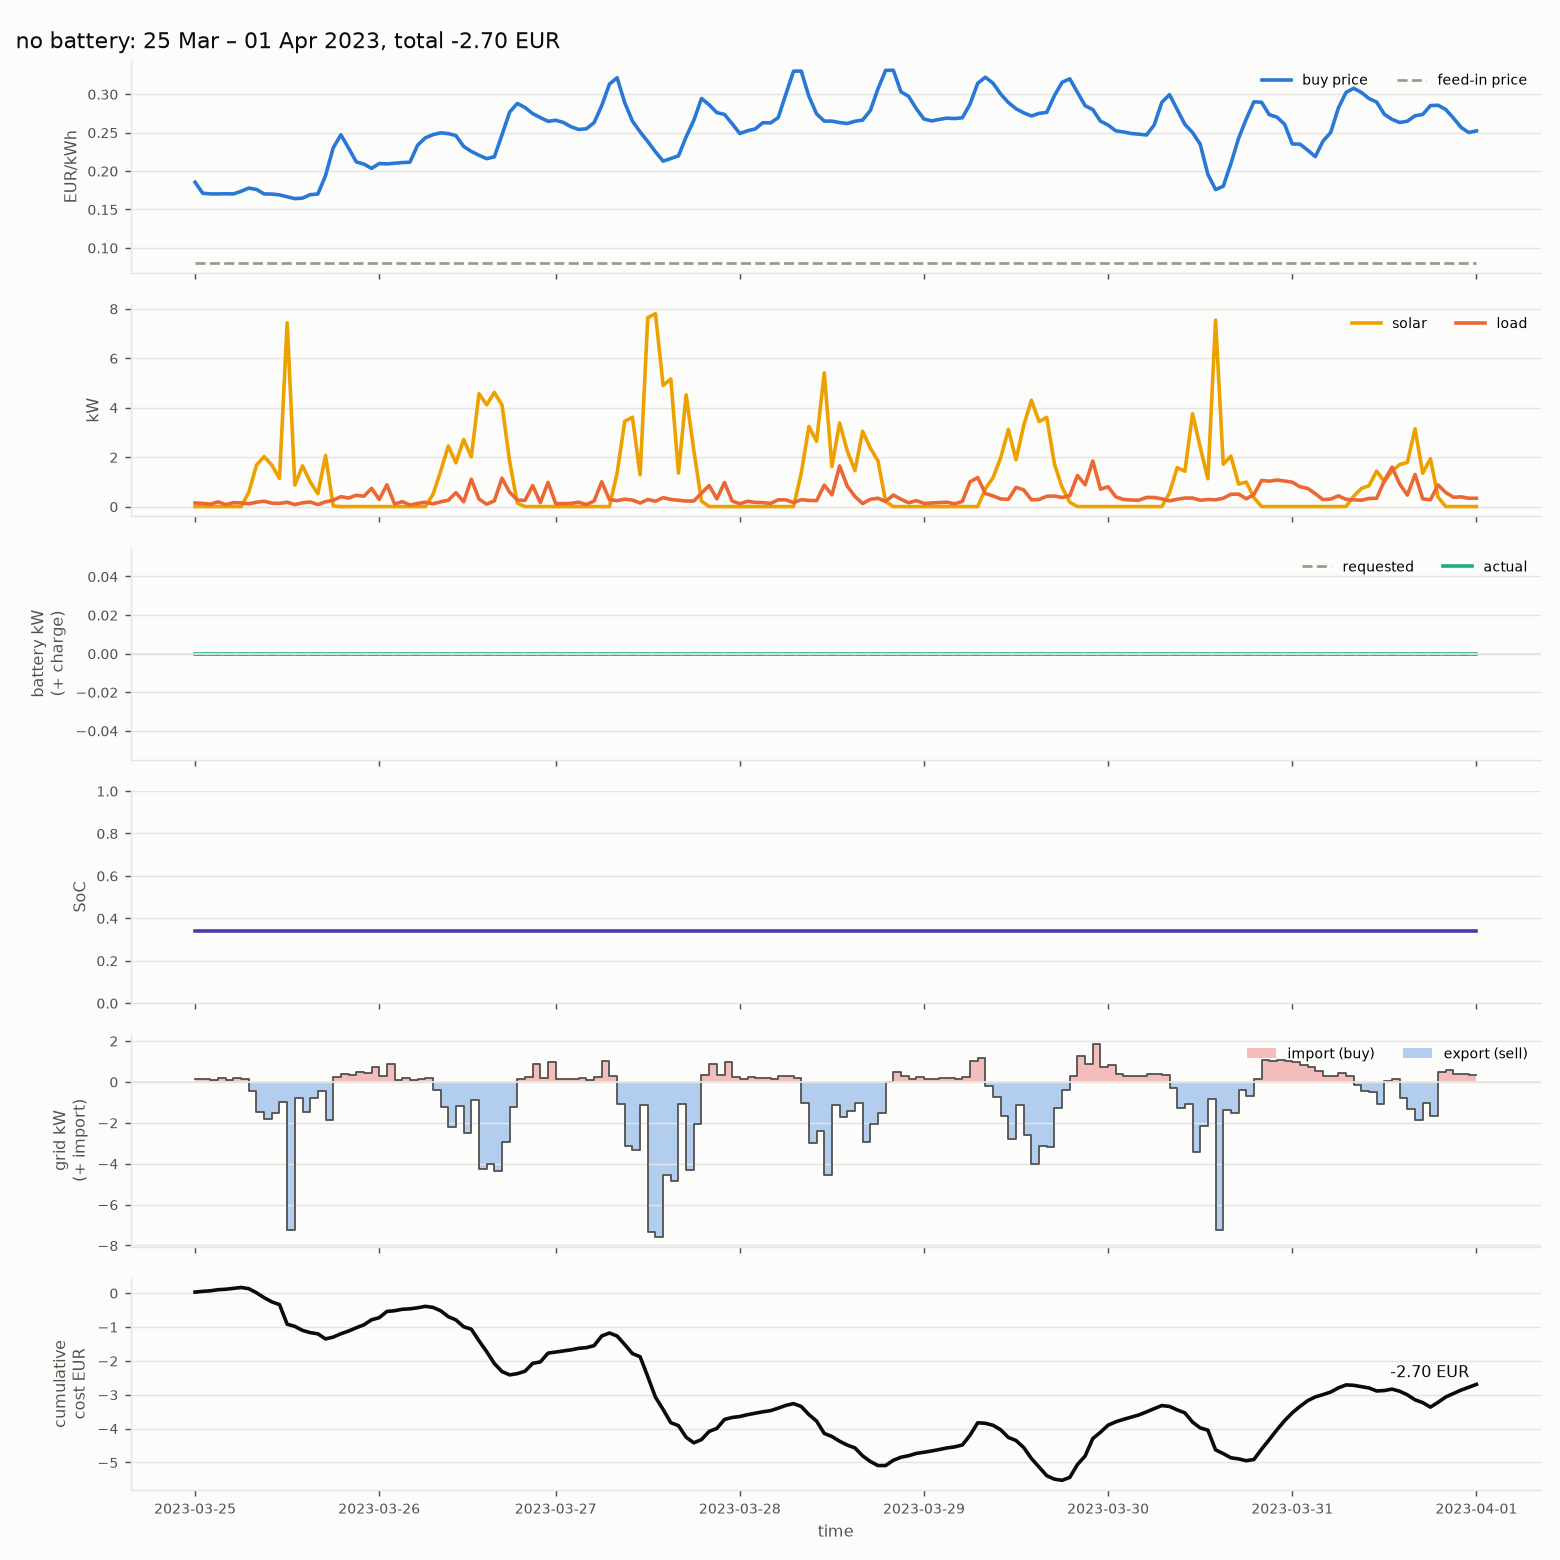
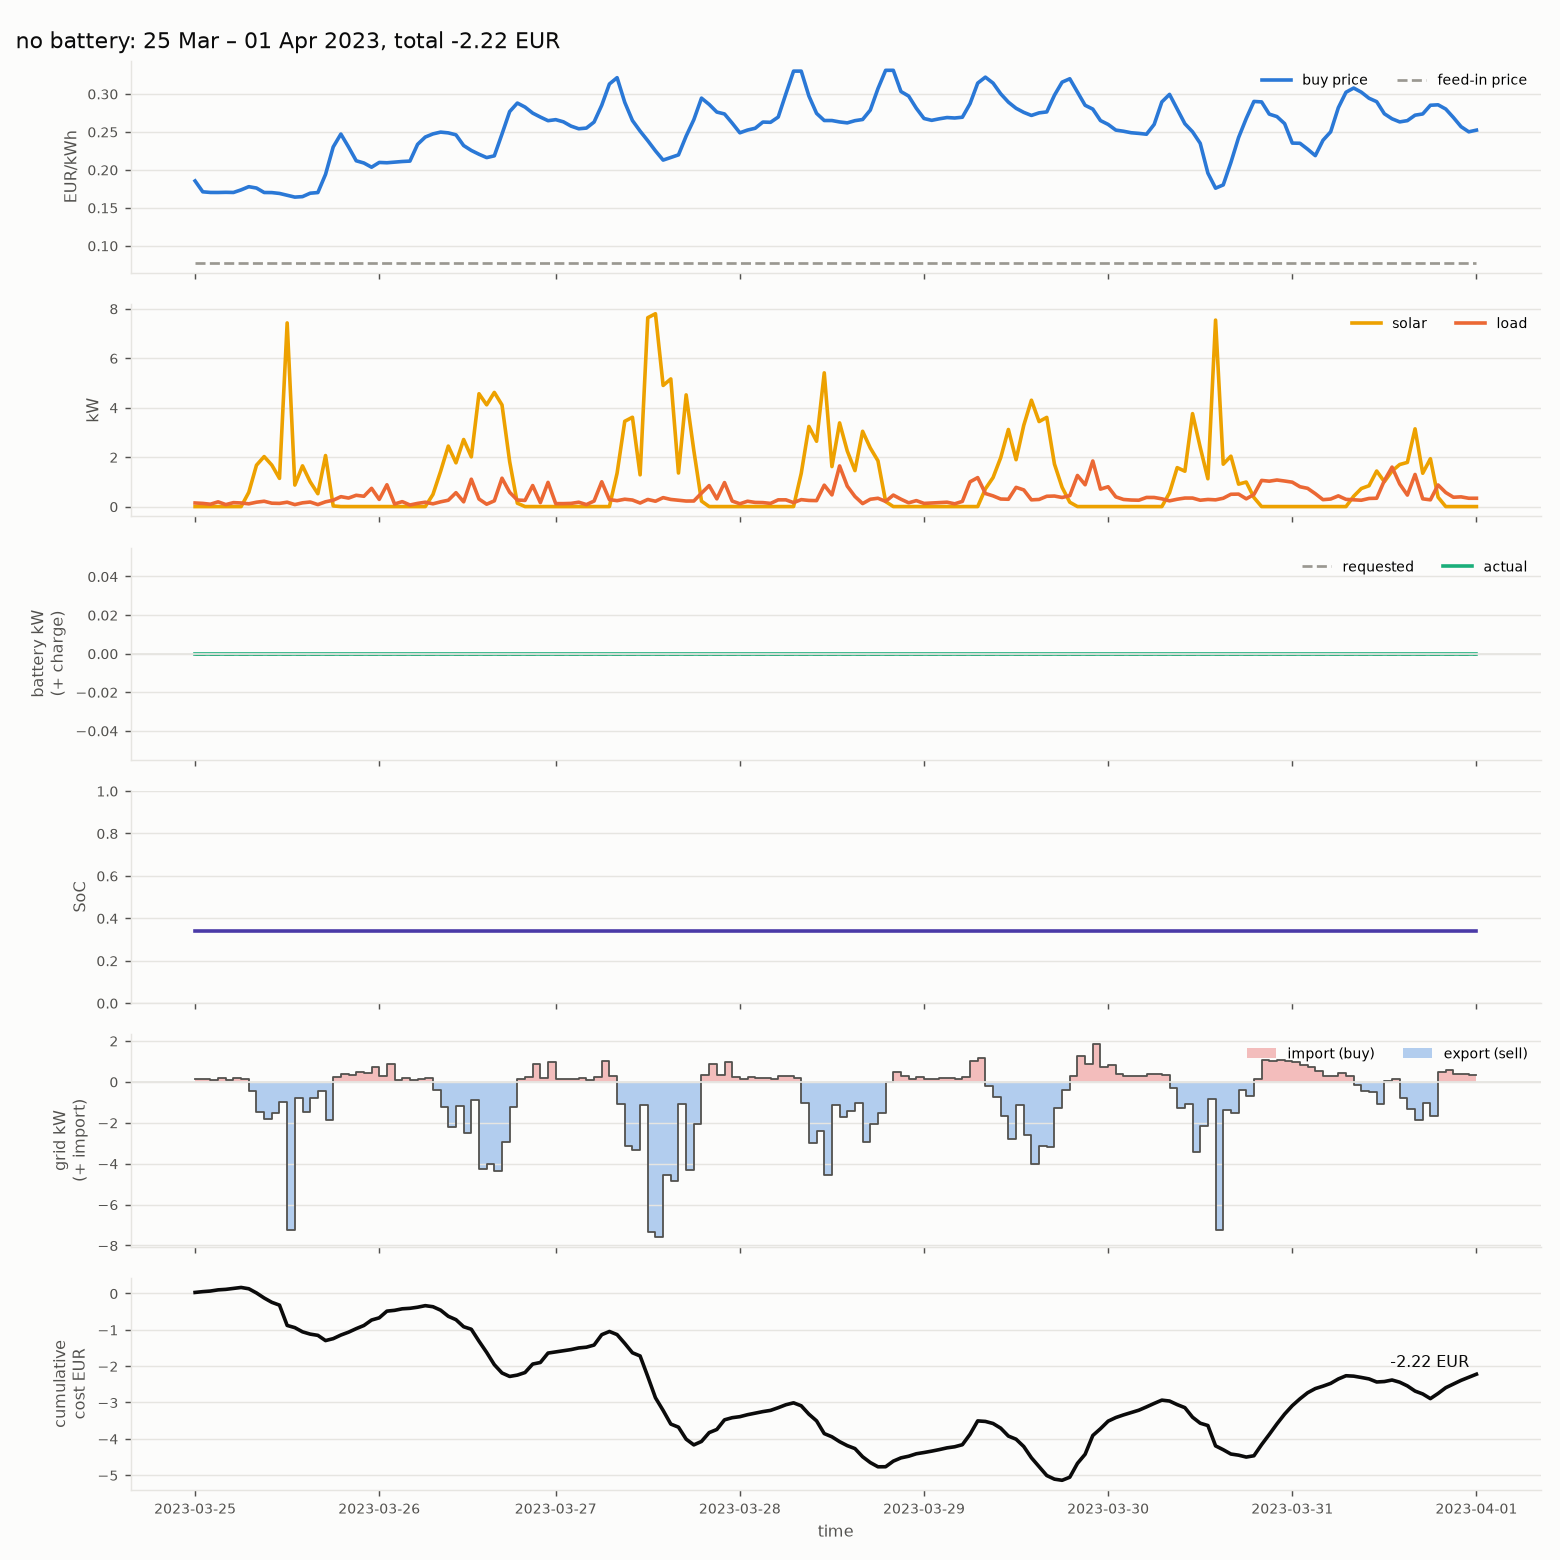
Added all observations to environment

diff --git a/smarthome.py b/smarthome.py
@@ -31,7 +31,7 @@ FEATURE_DOC = {
     "distractor":       "'n_distractors' observable signals with no effect"
 }
 
-SNAPSHOT = ("soc", "price", "solar", "load")
+SNAPSHOT = ("soc", "price", "solar", "load", "time", "season", "price_forecast", "solar_forecast")
 
 class SmartMicrogridEnv(gym.Env):
     metadata = {"render_modes": []}
